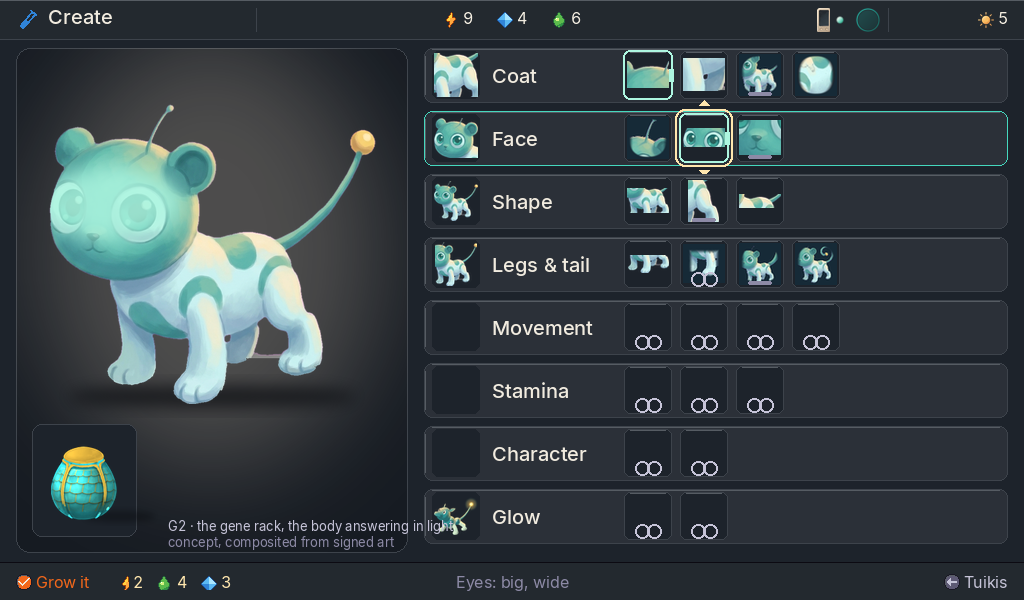
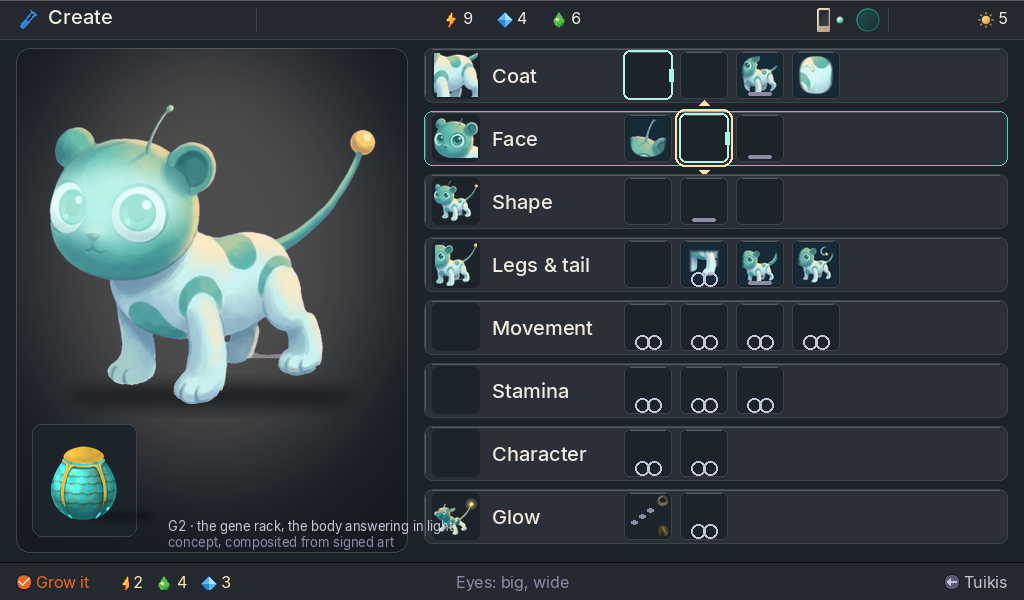
T-20261016-169: candling as light through the shell, scan light that reads, Glow self-changing, no crops as genes; the painting set owed

diff --git a/results/T-20261016-169/make-g2.py b/results/T-20261016-169/make-g2.py
@@ -77,14 +77,16 @@ def fit(img, size=44):
 
 
 def scan_light(fig, box, strength=0.5):
-    """The bench's scan light falling on one part of the founder (a soft mint wash within the figure)."""
+    """The bench's scan light falling on one part of the founder: it lightens the part (screen blend toward mint),
+    so it reads on any coat colour; soft falloff, within the figure only."""
     m = Image.new('L', fig.size, 0)
     ImageDraw.Draw(m).ellipse(box, fill=255)
     m = m.filter(ImageFilter.GaussianBlur(10))
-    a = np.asarray(fig, dtype=float)
-    k = np.asarray(m, dtype=float)[..., None] / 255 * strength * (a[..., 3:4] / 255)
-    a[..., :3] = a[..., :3] + (np.array(C['mint']) - a[..., :3]) * k
-    return Image.fromarray(np.clip(a, 0, 255).astype('uint8'), 'RGBA')
+    a = np.asarray(fig, dtype=float) / 255
+    k = np.asarray(m, dtype=float)[..., None] / 255 * strength * a[..., 3:4]
+    mint = np.array(C['mint']) / 255
+    a[..., :3] = 1 - (1 - a[..., :3]) * (1 - mint * k)
+    return Image.fromarray((np.clip(a, 0, 1) * 255).astype('uint8'), 'RGBA')
 
 
 def contact(w, h, alpha=0.6):
@@ -153,17 +155,16 @@ def frame(title_from, verb, pr, context, back):
 
 # --- the gene pictures: each tile is this founder's current look of that trait -------------------------------
 L = lambda n: fit(src('look-S03-%s-64x64.png' % n))
-GENES = {
-    'Coat': [('Colour', crop340(40, 30, 120, 80), 'changed'), ('Trim', crop340(165, 235, 235, 290), 'open'),
+GENES = {   # a picture only where a painted close-up of the look exists; the rest are empty wells until painted
+    'Coat': [('Colour', None, 'changed'), ('Trim', None, 'open'),
              ('Markings', L('markings-spots'), 'one'), ('Scales', L('scales-few-fine'), 'open')],
-    'Face': [('Crest', L('crest-tall-crest'), 'open'), ('Eyes', crop340(0, 80, 140, 145), 'changed-focus'),
-             ('Snout', crop340(25, 125, 85, 175), 'one')],
-    'Shape': [('Build', crop340(60, 140, 310, 290), 'open'), ('Haunch', crop340(220, 160, 310, 285), 'one'),
-              ('Topline', crop340(150, 135, 300, 185), 'open')],
-    'Legs & tail': [('Legs', crop340(60, 230, 310, 335), 'open'), ('Claws', fit(src('trait-S03-claws-round-feet-104x96.png')), 'breeding'),
+    'Face': [('Crest', L('crest-tall-crest'), 'open'), ('Eyes', None, 'changed-focus'), ('Snout', None, 'one')],
+    'Shape': [('Build', None, 'open'), ('Haunch', None, 'one'), ('Topline', None, 'open')],
+    'Legs & tail': [('Legs', None, 'open'), ('Claws', fit(src('trait-S03-claws-round-feet-104x96.png')), 'breeding'),
                     ('Tail', L('tail-long-thick'), 'one'), ('Carriage', L('carriage-curls-up'), 'open')],
 }
 DOINGS = [('Movement', 4), ('Stamina', 3), ('Character', 2), ('Glow', 2)]
+SELF = {('Glow', 0)}          # emission-brightness: changed by self (cave, wood); emission-length: breeding only
 
 
 def pose_glow():
@@ -194,6 +195,11 @@ def gene_tile(im, d, x, y, pic, state, size=48):
     if state in ('breeding', 'doing'):        # only breeding changes it: the joined rings
         for dx in (-6, 6):
             d.ellipse((x + size // 2 + dx - 7, y + size - 16, x + size // 2 + dx + 7, y + size - 2), outline=C['fog'], width=2)
+    if state == 'self':                       # it changes where it goes: unlit steps with the trigger's place badges
+        for i, (sx, sy) in enumerate(((10, 30), (18, 24), (26, 18))):
+            d.ellipse((x + sx * size // 48 - 3, y + sy * size // 48 - 2, x + sx * size // 48 + 3, y + sy * size // 48 + 2), fill=C['mist'])
+        im.alpha_composite(src('genome-place-cave-12x12.png'), (x + size - 15, y + 3))
+        im.alpha_composite(src('genome-place-wood-12x12.png'), (x + size - 15, y + size - 15))
     if state.endswith('focus'):
         d.rounded_rectangle((x - 5, y - 5, x + size + 4, y + size + 4), 10, outline=C['focus'], width=2)
         d.polygon([(x + size // 2 - 5, y - 9), (x + size // 2 + 5, y - 9), (x + size // 2, y - 14)], fill=C['focus'])
@@ -221,10 +227,10 @@ def rack(im, d, x0, y0, w, pitch, size, words=True, heads=True, focus_row=None, 
         if genes is None:
             n = dict(DOINGS)[name]
             for i in range(n):
-                gene_tile(im, d, gx + i * (size + 8), y + (pitch - 8 - size) // 2, None, 'doing', size)
+                gene_tile(im, d, gx + i * (size + 8), y + (pitch - 8 - size) // 2, None, 'self' if (name, i) in SELF else 'doing', size)
         else:
             for i, (t, pic, st) in enumerate(genes):
-                p = fit(pic, size - 6)
+                p = fit(pic, size - 6) if pic is not None else None
                 gene_tile(im, d, gx + i * (size + 8), y + (pitch - 8 - size) // 2, p, st if not compact else st.replace('-focus', ''), size)
 
 
@@ -276,18 +282,29 @@ a = np.asarray(pod, dtype=float)
 yy = np.linspace(0, 1, a.shape[0])[:, None, None] ** 1.3
 a[..., :3] = a[..., :3] + (np.array([226, 252, 242]) - a[..., :3]) * (0.72 * yy)
 pod = Image.fromarray(np.clip(a, 0, 255).astype('uint8'), 'RGBA')
-sil = FULL.resize((round(FULL.width * 92 / FULL.height), 92), Image.LANCZOS)
-# known parts in colour (Coat, Face: the founder's own colour), unknown parts frost
-silc = Image.new('RGBA', sil.size, (0, 0, 0, 0))
-known = np.asarray(sil, dtype=float)
-mask_known = np.zeros(known.shape[:2]); mask_known[: int(sil.height * 0.55), :] = 1          # head and shoulders read
-fr = np.array(C['frostD'], dtype=float)
-known[..., :3] = known[..., :3] * mask_known[..., None] + fr * (1 - mask_known[..., None])
-known[..., 3] *= 1.0
-inner = Image.fromarray(np.clip(known, 0, 255).astype('uint8'), 'RGBA').filter(ImageFilter.GaussianBlur(1.4))
-lay = Image.new('RGBA', pod.size, (0, 0, 0, 0)); lay.alpha_composite(inner, ((pod.width - inner.width) // 2, 48))
-lay.putalpha(ImageChops.multiply(lay.getchannel('A'), pod.getchannel('A')))
+sil = FULL.resize((round(FULL.width * 96 / FULL.height), 96), Image.LANCZOS)
+sa = np.asarray(sil, dtype=float)
+known = np.zeros(sa.shape[:2]); known[: int(sil.height * 0.55), :] = 1
+known = np.asarray(Image.fromarray((known * 255).astype('uint8')).filter(ImageFilter.GaussianBlur(6)), dtype=float)[..., None] / 255
+warm = np.array([255, 214, 168], dtype=float)
+lit = sa[..., :3] * 0.7 + warm * 0.3                       # the known parts, tinted by the light passing through
+frost = np.array([206, 220, 226], dtype=float)                # the unknown, as frost within the glow
+sa[..., :3] = lit * known + frost * (1 - known)
+sa[..., 3] = sa[..., 3] * 0.92
+form = Image.fromarray(np.clip(sa, 0, 255).astype('uint8'), 'RGBA').filter(ImageFilter.GaussianBlur(1.3))
+lay = Image.new('RGBA', pod.size, (0, 0, 0, 0)); lay.alpha_composite(form, ((pod.width - form.width) // 2, 46))
+pmask = pod.getchannel('A')
+lay.putalpha(ImageChops.multiply(lay.getchannel('A'), pmask))
+glow = Image.new('L', pod.size, 0); ImageDraw.Draw(glow).ellipse((20, 70, pod.width - 20, pod.height - 4), fill=105)
+glow = ImageChops.multiply(glow.filter(ImageFilter.GaussianBlur(18)), pmask)
+gl_ = Image.new('RGBA', pod.size, (255, 232, 200, 0)); gl_.putalpha(glow)
+pod.alpha_composite(gl_)
 pod.alpha_composite(lay)
+pat = (np.asarray(src('pod-collection-pattern-plates.png').resize(pod.size, Image.LANCZOS), dtype=float)[..., 3] / 255) * 0.5
+B = np.array([int(c['hex'][i:i + 2], 16) for c in [json.load(open(os.path.join(SRC, 'species-S03.json')))['pod']['colourPair'][1]] for i in (1, 3, 5)], dtype=float)
+pa = np.asarray(pod, dtype=float)
+pa[..., :3] = pa[..., :3] * (1 - pat[..., None]) + (pa[..., :3] * 0.5 + B * 0.5) * pat[..., None]   # the shell's pattern over the form
+pod = Image.fromarray(np.clip(pa, 0, 255).astype('uint8'), 'RGBA')
 px, py = cx - 66, y0 + ch - 168 - 34
 pool = Image.new('L', (1024, 600), 0); ImageDraw.Draw(pool).ellipse((cx - 80, y0 + ch - 52, cx + 80, y0 + ch - 8), fill=150)
 lamp = Image.new('RGBA', (1024, 600), (200, 250, 236, 0)); lamp.putalpha(pool.filter(ImageFilter.GaussianBlur(10)))

diff --git a/results/T-20261016-169.md b/results/T-20261016-169.md
@@ -47,6 +47,25 @@ Two concepts at 1024×600, 1×, each labelled inside the image. They are composi
 
 Run: `python3 results/T-20261016-169/make-g2.py <src> <fonts> results/T-20261016-169` printed both files. Both were checked by eye at 1×.
 
+## Update: the gates' fixes that composition can make, and the painting it cannot
+This answers `results/T-20261016-169-ui-art.md` (FAIL: crop tiles, a pasted form, empty rows, a vanishing scan light) and `results/T-20261016-169-game-design.md` (FAIL: Glow's first gene, the doing rows).
+
+**Fixed now:**
+- **The candled form** is light through the shell, not a paste. A soft glow fills the shell from the lamp below. The founder's form sits inside it with diffused edges: its known parts (head and shoulders) in their own colour tinted by the warm light, its unknown body as frost within the glow. The shell's own pattern lies over the form.
+- **The scan light** now lightens the part it falls on (a screen blend toward `mint`), so it reads on a teal coat: the founder's eyes are visibly lit.
+- **Glow's first gene** (`emission-brightness`, changed by self) draws its step marks, always unlit, with the cave and wood place badges (`specs/genome-screen-calls.md`). Only `emission-length` keeps the joined rings.
+- **No crops as genes.** Each of the eight genes without a painted close-up (Colour, Trim, Eyes, Snout, Build, Haunch, Topline, Legs) is now an empty well, as the doing genes are. The tiles show a picture only where the look itself is painted.
+
+**Owed: the smallest honest painting set (S03 as the proof species).** It covers exactly what the two screens show at rest:
+1. **Eight look close-ups:** the founder's current look for Colour, Trim, Eyes, Snout, Build, Haunch, Topline and Legs, each centred and lit in the recipe and framing of the existing `look-S03-*` close-ups.
+2. **Two neighbour faces** for the focused gene (Eyes: small and close, between), so the turn the screen shows is real.
+3. **Three behaviour stills** for the doing row heads, this founder doing it (`specs/trait-words-and-doings.md` §3): footprints at its pace, the long walk, the new object or the passing shadow.
+4. **Nine doing-gene stills** for the current looks (Movement 4, Stamina 3, Character 2).
+
+That is 22 pictures. The existing close-ups and motion keys were made as key sheets of six cells from the founder's signed stand, so this is about four sheets plus one single-key fix, then cut and signed by hand. These are paid image requests. The ticket's budget is "0 (by hand)", so the set waits on the lead's decision and cap; none were made.
+
+Run: `python3 results/T-20261016-169/make-g2.py <src> <fonts> results/T-20261016-169` printed both files. Both were checked by eye at 1×.
+
 ## Goldens
 None. These are concepts for the device sheet.
 
